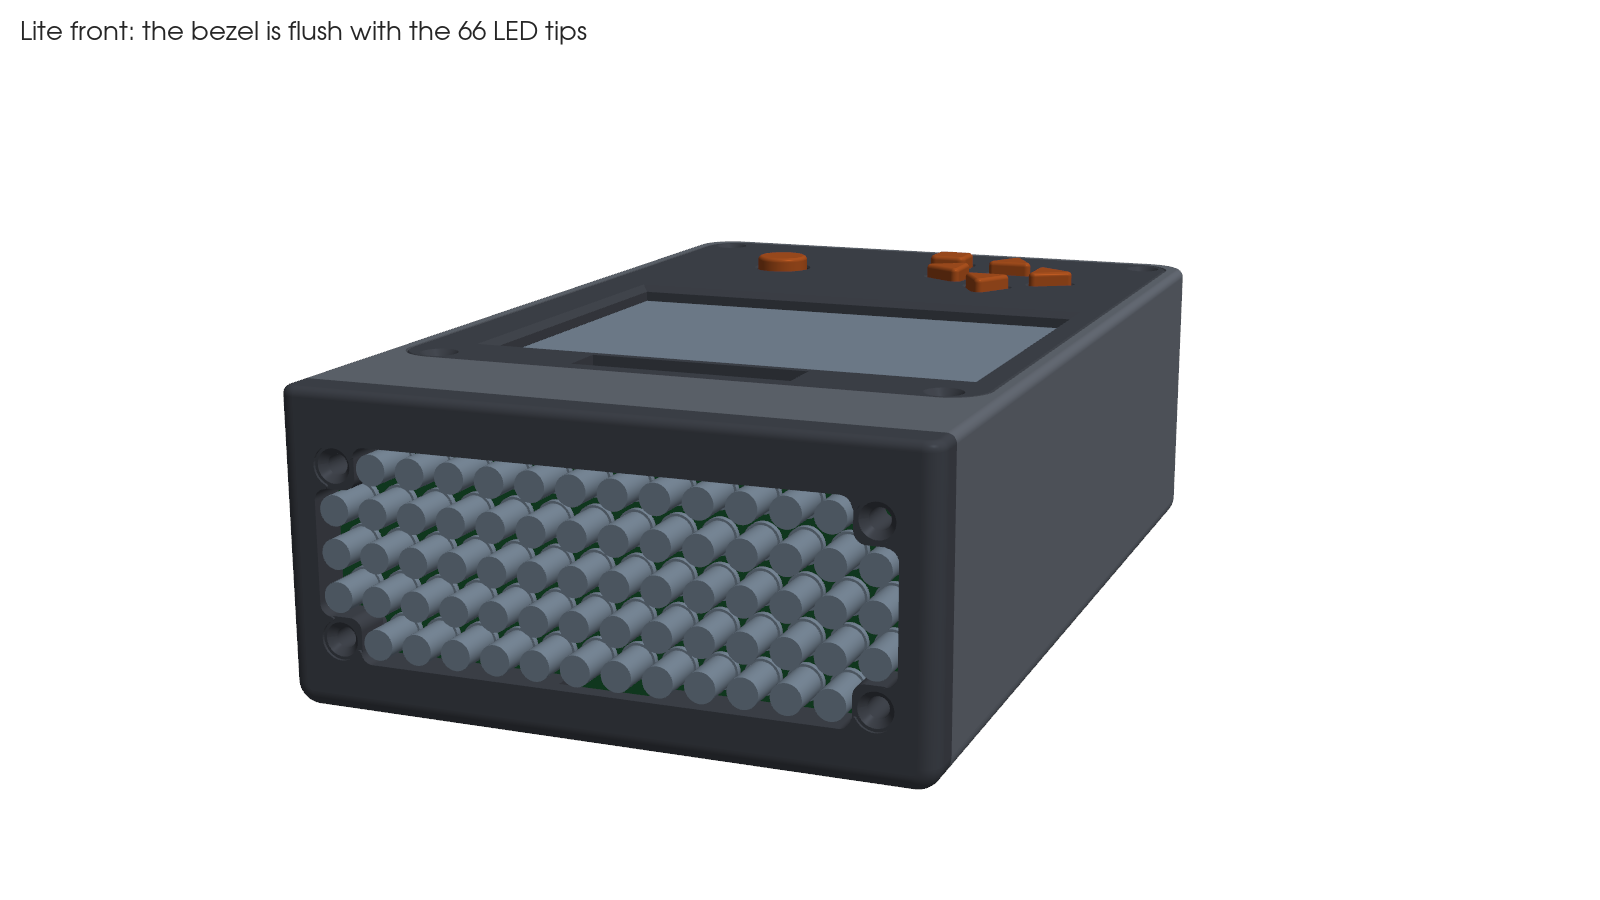
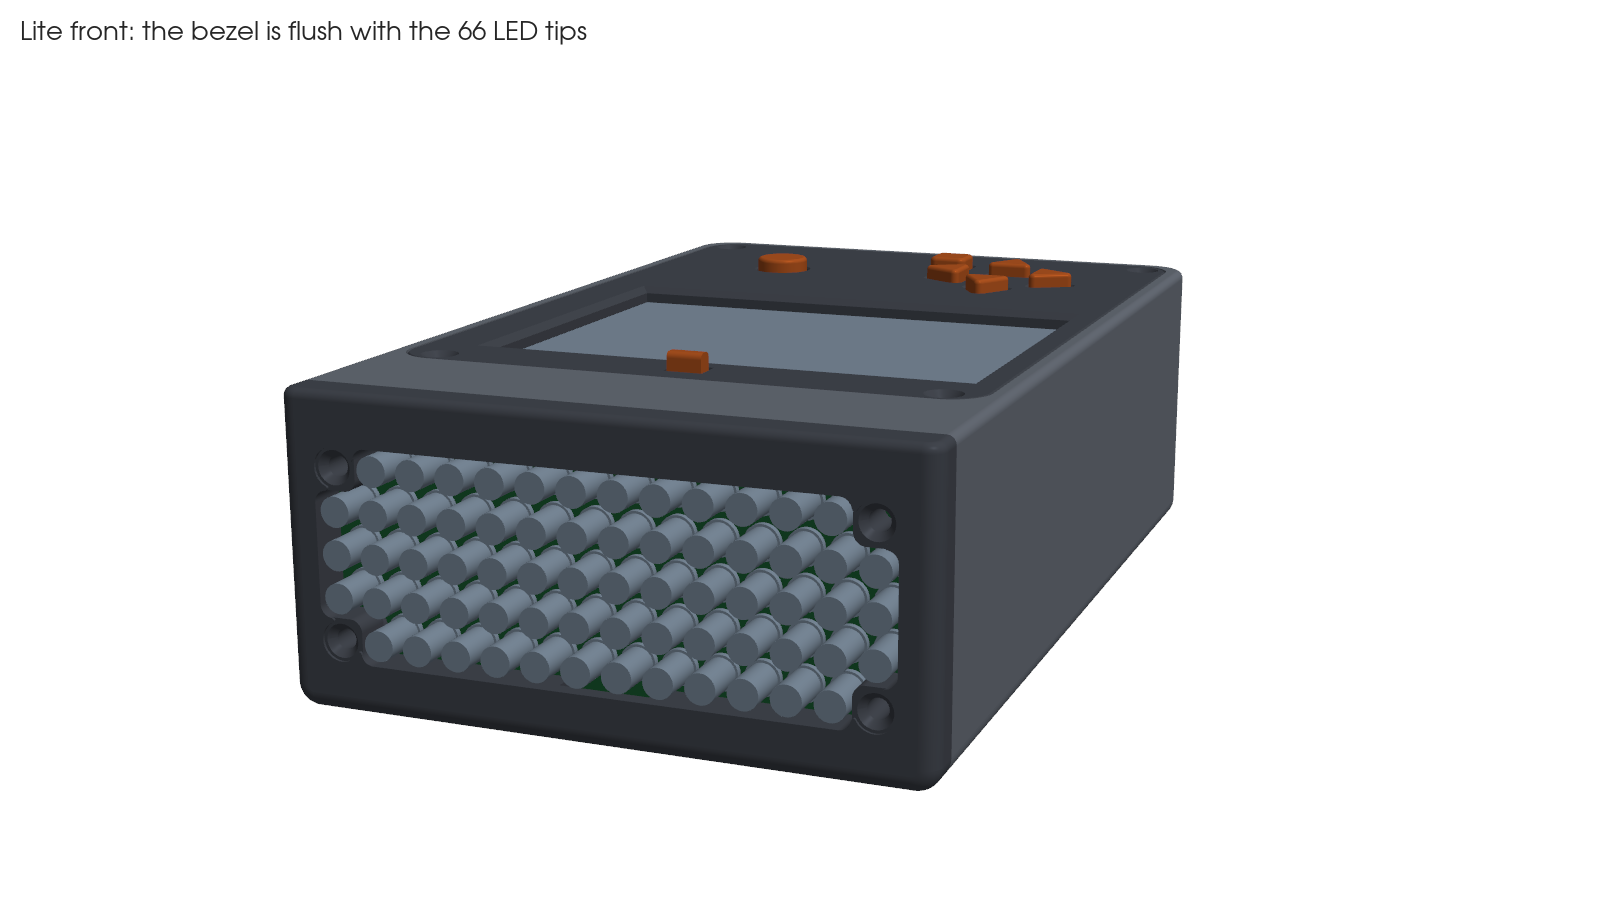
Housing previews: re-render with current lid, add PWR lever to render script
render_lite.py predated the PWR lever (KeyError on pwr_lever); it now
colours it, moves it with the lid in the exploded view and shows it on
the print-layout bed.

Claude-Session: https://claude.ai/code/session_013FR9VaNd2Z6uCQRPLBLU1A

diff --git a/housing/tools/render_lite.py b/housing/tools/render_lite.py
@@ -18,7 +18,7 @@ sys.path.insert(0, str(Path(__file__).resolve().parent))
 import housing_lite as L  # noqa: E402
 from render import actor, render  # noqa: E402
 
-PCOL = {"bezel": "dark", "body": "housing", "lid": "dark", "door": "dark"}
+PCOL = {"bezel": "dark", "body": "housing", "lid": "dark", "door": "dark", "pwr_lever": "cap"}
 REFCOL = {"led_head_pcb": "pcb", "control_pcb": "pcb", "aa_holder": "cells",
           "display": "display", "display_18650": "batt"}
 
@@ -50,7 +50,7 @@ def main():
     # pulled apart along each part's assembly direction: bezel + LED head forward (-z), lid + caps up, AA
     # holder + door down out of the bay
     off = {"bezel": (0, 0, -75), "body": (0, 0, 0), "lid": (0, 70, 0),
-           "door": (0, -85, 0), "led": (0, 0, -40), "cells": (0, -55, 0)}
+           "door": (0, -85, 0), "led": (0, 0, -40), "cells": (0, -55, 0), "pwr_lever": (0, 70, 0)}
     roff = {"led_head_pcb": "led", "control_pcb": "lid", "aa_holder": "cells",
             "display": "lid", "display_18650": "lid"}
     acts = [actor(p, PCOL[n], off[n]) for n, p in parts.items()]
@@ -78,7 +78,7 @@ def main():
         acts.append(actor(L.box(-90, 90, -90, 90, -2, 0), "bed", (dx, 0, 0)))
     render(acts, out / "lite_print_orientation.png", cam_pos=(400, -380, 280), focal=(400, 0, 20),
            view_up=(0, 0, 1), size=(2000, 700), zoom=2.3,
-           title="Lite, as printed: bezel | body (floor down) | lid (top down) | door (inside down)")
+           title="Lite, as printed: bezel | body (floor down) | lid (top down) | door (inside down) | PWR lever (on its side)")
     print("previews written to", out)
 
 
